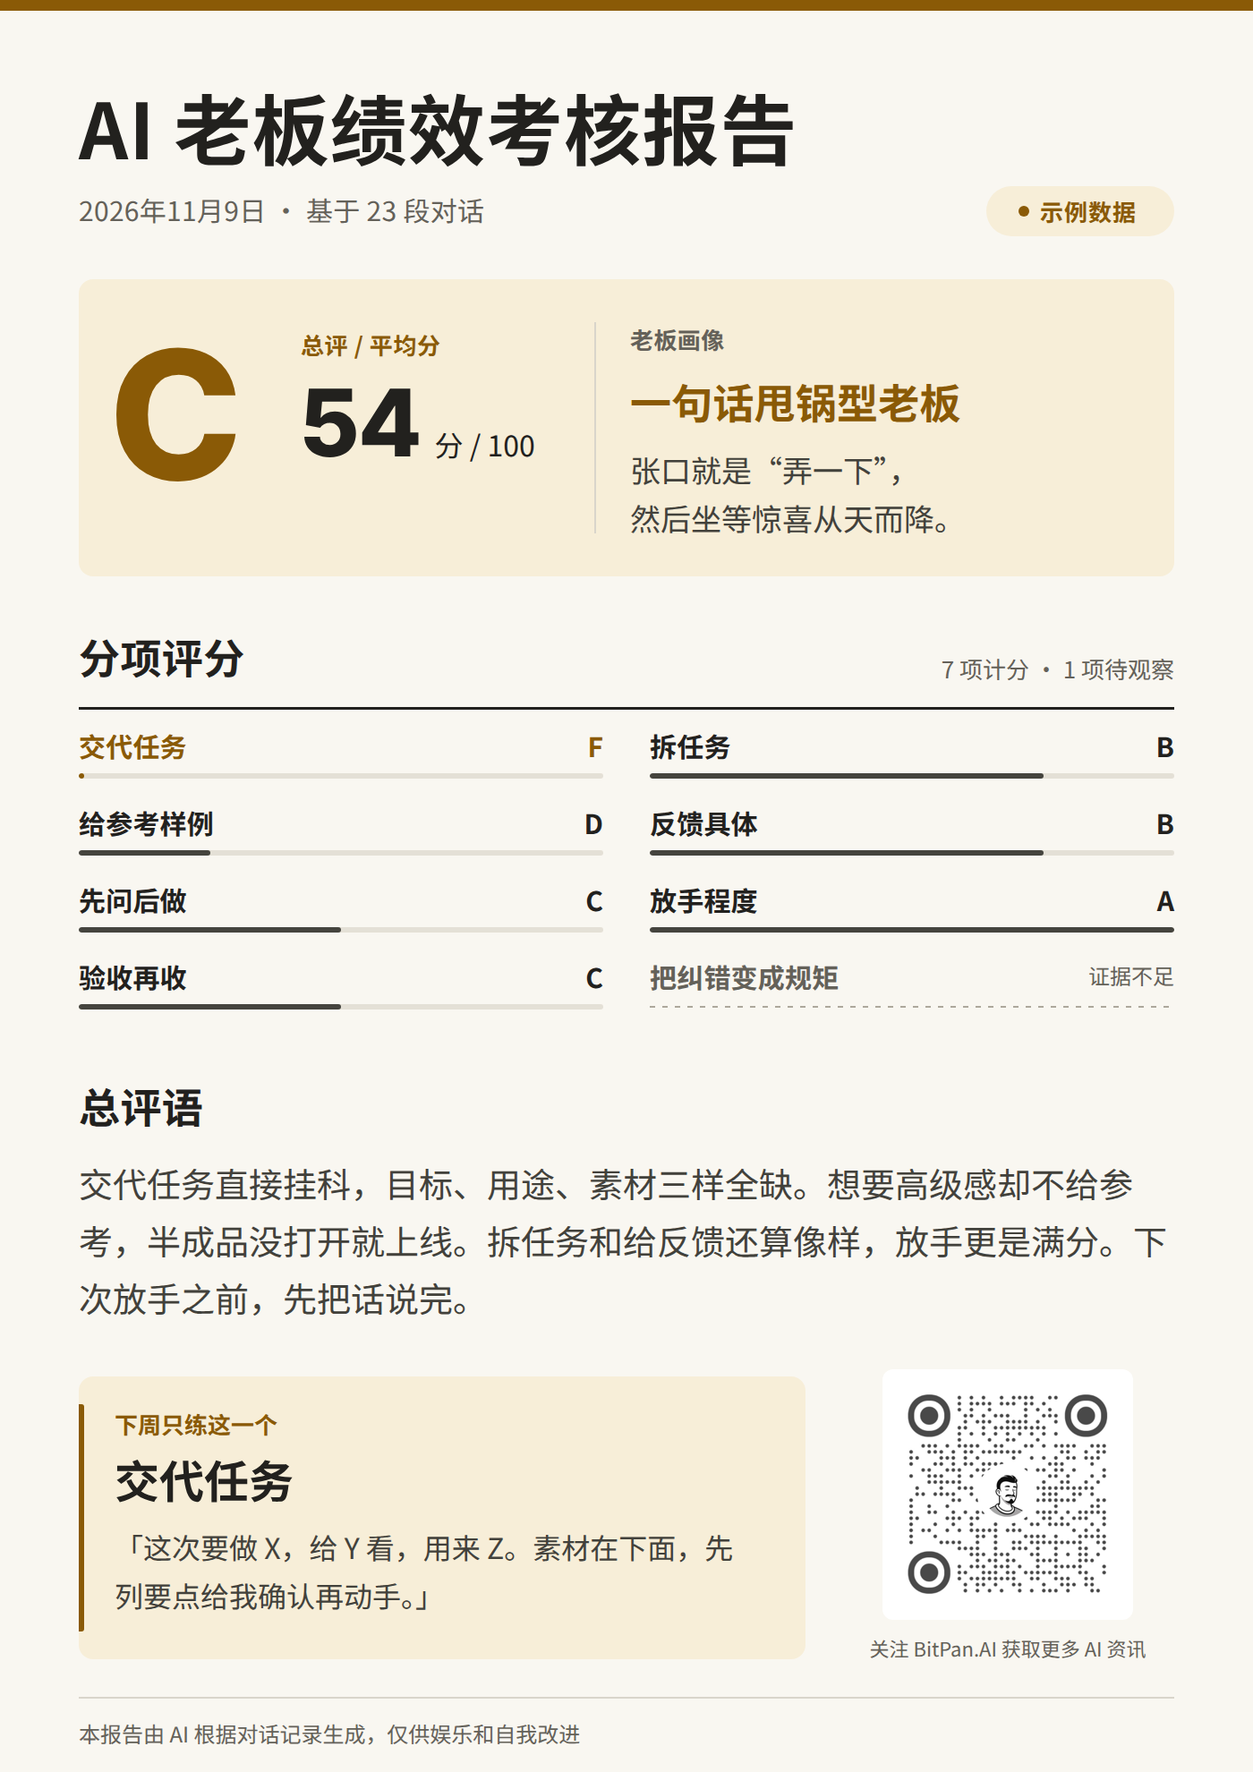
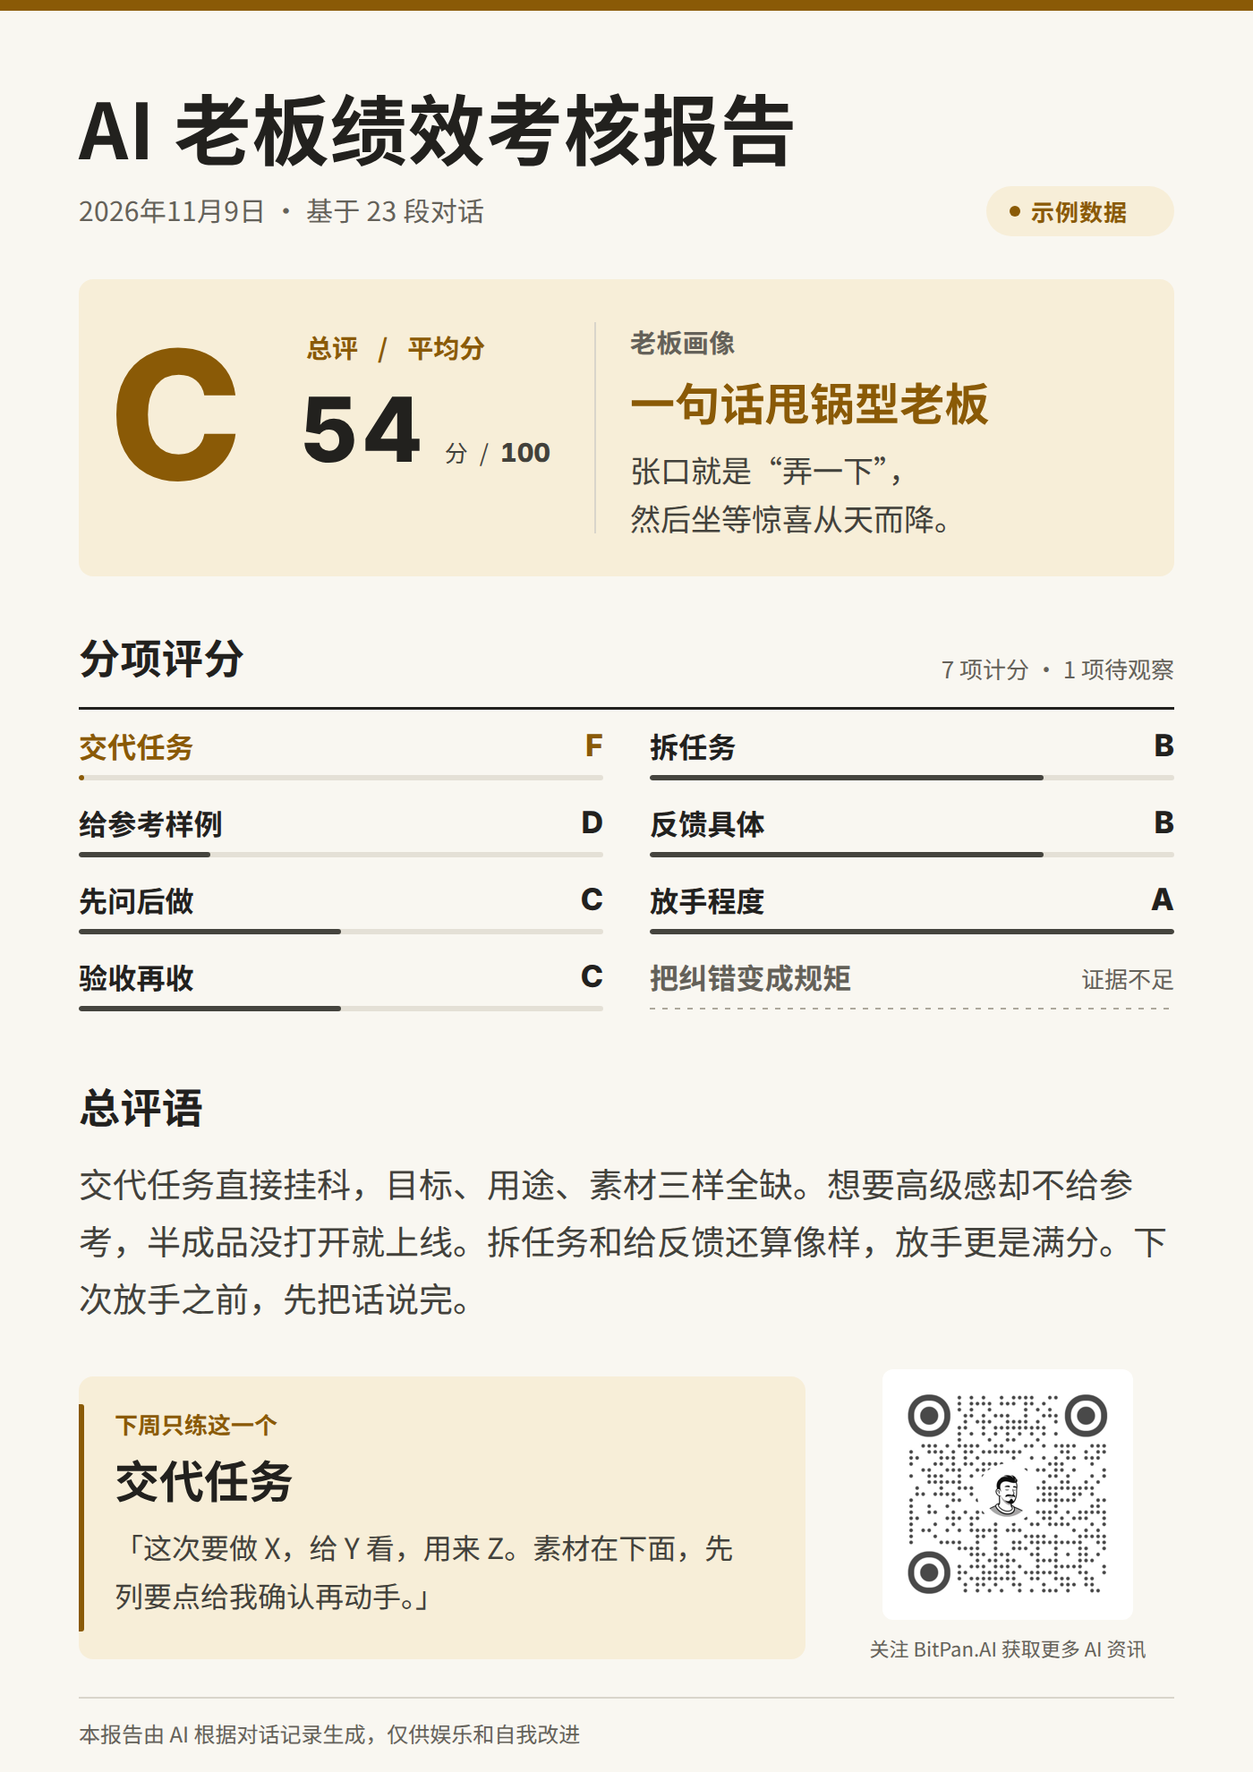
对齐成绩单字号和间距，截图失败只出文字版
画像标题、分项名、证据不足、老板画像按定稿字号放大。总评斜杠两侧拉开，大号分数下移并改用 Inter 的等宽数字，分/100 缩小并改成正文色。胶囊里的字左移 10px。

报告数据改放文本框，用 textContent 读入再校验。画像描述里的换行超过两行会报错退出。截不了图时只出文字版，不再把 HTML 交给用户。

diff --git a/skills/boss-review/assets/report-card.html b/skills/boss-review/assets/report-card.html
@@ -43,7 +43,7 @@ h1{
 }
 .badge{
   position:absolute;top:208px;right:88px;height:56px;max-width:320px;
-  padding:0 42px 0 36px;border-radius:28px;
+  padding:0 52px 0 26px;border-radius:28px;
   background:var(--card);color:var(--accent);
   display:flex;align-items:center;gap:12px;
   font-size:26px;font-weight:600;letter-spacing:1px;
@@ -61,22 +61,25 @@ h1{
   color:var(--accent);letter-spacing:-2px;
 }
 .score{position:absolute;left:248px;top:60px;width:320px}
-.kicker{font-size:26px;line-height:28px;font-weight:600;letter-spacing:0.6px}
-.kicker.accent{color:var(--accent)}
+.kicker{font-size:29px;line-height:32px;font-weight:600;letter-spacing:0.4px}
+.kicker.accent{color:var(--accent);display:flex;align-items:baseline;gap:22px;letter-spacing:0;margin-left:6px}
 .kicker.muted{color:var(--muted);font-weight:600;letter-spacing:0.4px}
-.scoreline{margin-top:36px;display:flex;align-items:baseline;gap:16px}
+.scoreline{margin-top:39px;display:flex;align-items:baseline;gap:20px}
 .scoreline b{
-  font-family:Inter,sans-serif;font-weight:800;font-size:104px;line-height:0.72;
-  letter-spacing:-2px;color:var(--ink);
+  font-family:Inter,sans-serif;font-weight:800;font-size:100px;line-height:0.75;
+  letter-spacing:5.8px;color:var(--ink);
+  font-variant-numeric:tabular-nums;
+  font-feature-settings:"tnum" 1;
 }
-.scoreline b.dash{color:#6E6A62;letter-spacing:0}
-.unit{font-size:32px;line-height:1;font-weight:500;color:var(--ink)}
+.scoreline b.dash{color:#6E6A62;letter-spacing:0;font-variant-numeric:normal}
+.unit{display:inline-flex;align-items:baseline;gap:13px;font-size:26px;line-height:1;font-weight:500;color:var(--body);letter-spacing:0}
+.unit .ud{font-family:Inter,sans-serif;font-weight:800;font-size:29px;font-variant-numeric:tabular-nums;font-feature-settings:"tnum" 1;letter-spacing:0}
 .few{margin-top:18px;font-size:20px;line-height:28px;color:var(--muted);font-weight:400}
 .vrule{position:absolute;left:576px;top:48px;width:2px;height:236px;background:var(--hair)}
 .portrait{position:absolute;left:616px;top:54px;width:560px}
 .portrait h2{
-  margin-top:28px;color:var(--accent);
-  font-size:46px;line-height:54px;font-weight:600;letter-spacing:0.2px;
+  margin-top:24px;color:var(--accent);
+  font-size:50px;line-height:54px;font-weight:600;letter-spacing:0.2px;
   overflow:hidden;white-space:nowrap;text-overflow:ellipsis;
 }
 .portrait p{
@@ -100,10 +103,10 @@ h1{
   grid-template-rows:repeat(4,86px);grid-auto-flow:column;
 }
 .cell{height:86px}
-.nrow{height:32px;display:flex;align-items:flex-end;justify-content:space-between}
-.nrow .n{font-size:30px;line-height:32px;font-weight:600;letter-spacing:0.2px}
-.nrow .g{font-size:30px;line-height:32px;font-weight:600}
-.nrow .g.na{font-size:24px;font-weight:400;color:var(--muted);padding-bottom:1px}
+.nrow{height:34px;display:flex;align-items:flex-end;justify-content:space-between}
+.nrow .n{font-size:32px;line-height:34px;font-weight:600;letter-spacing:0.2px}
+.nrow .g{font-family:Inter,var(--sans);font-size:34px;line-height:34px;font-weight:800}
+.nrow .g.na{font-family:var(--sans);font-size:26px;line-height:28px;font-weight:400;color:var(--muted);padding-bottom:1px}
 .cell.na .n{color:var(--muted)}
 .cell.low .n,.cell.low .g{color:var(--accent)}
 .bar{margin-top:15px;height:6px;border-radius:3px;background:var(--track);overflow:hidden}
@@ -164,8 +167,8 @@ h1{
 <section class="hero">
   <div class="grade" id="grade"></div>
   <div class="score">
-    <div class="kicker accent">总评 / 平均分</div>
-    <div class="scoreline"><b id="avg"></b><span class="unit">分 / 100</span></div>
+    <div class="kicker accent"><span>总评</span><span>/</span><span>平均分</span></div>
+    <div class="scoreline"><b id="avg"></b><span class="unit"><span>分</span><span>/</span><span class="ud">100</span></span></div>
     <div class="few" id="few" hidden>计分项偏少，仅供参考</div>
   </div>
   <div class="vrule"></div>
@@ -201,26 +204,7 @@ h1{
 <div class="fline"></div>
 <div class="foot">本报告由 AI 根据对话记录生成，仅供娱乐和自我改进</div>
 
-<script>
-window.addEventListener("error", (ev) => {
-  document.body.dataset.renderError = (ev && ev.message) || "脚本出错";
-});
-</script>
-<script>
-/* =====================================================================
-   只改下面这个 REPORT。主题色、平均分、总评等级、最低项高亮、进度条
-   都由后面的脚本计算，不要手填，也不要改样式。
-   字数是上限。再长会被省略号截断，不要指望多写还能完整显示。
-   date            日期，原样显示，最多 16 个字。如 "2026年11月9日"
-   conversations   对话段数，最多 4 位整数。缺 date 或 conversations 时那一段留空
-   badge           右上角胶囊，最多 6 个字。示例填 "示例数据"；真实报告填 null 去掉
-   grades          八项等级：A–F，不区分大小写。证据不足填 null。别的值会报错
-   portraitTitle   老板画像标题，一行，最多 11 个字
-   portraitText    画像描述，最多 32 个字、两行。需要手动断行时在字符串里写 \n
-   commentary      总评语，最多 90 个字、三行
-   focusTitle      下周只练这一个的标题，一行，最多 14 个字
-   focusScript     一句可以照着说的话，连同「」一起写，最多 42 个字、两行
-   ===================================================================== */
+<textarea id="report-data" hidden readonly>
 const REPORT = {
   "date": "2026年11月9日",
   "conversations": 23,
@@ -241,7 +225,35 @@ const REPORT = {
   "focusTitle": "把反馈沉淀成规则",
   "focusScript": "「这次通过的标准是 X。把它补进检查清单，下次交付前先自查。」"
 };
-
+</textarea>
+<script>
+window.addEventListener("error", (ev) => {
+  document.body.dataset.renderError = (ev && ev.message) || "脚本出错";
+});
+</script>
+<script>
+/* =====================================================================
+   只改上面 textarea 里的 REPORT。主题色、平均分、总评等级、最低项高亮、
+   进度条都由脚本计算，不要手填，也不要改样式。数据按纯文本读入，再用
+   textContent 写到页面上，不会当成 HTML 执行。
+   字数是上限。再长会被省略号截断，不要指望多写还能完整显示。
+   date            日期，原样显示，最多 16 个字。如 "2026年11月9日"
+   conversations   对话段数，最多 4 位整数。缺 date 或 conversations 时那一段留空
+   badge           右上角胶囊，最多 6 个字。示例填 "示例数据"；真实报告填 null 去掉
+   grades          八项等级：A–F，不区分大小写。证据不足填 null。别的值会报错
+   portraitTitle   老板画像标题，一行，最多 11 个字
+   portraitText    画像描述，最多 32 个字、两行。\n 用来手动断行，每一段必须单独排进一行
+   commentary      总评语，最多 90 个字、三行
+   focusTitle      下周只练这一个的标题，一行，最多 14 个字
+   focusScript     一句可以照着说的话，连同「」一起写，最多 42 个字、两行
+   ===================================================================== */
+function loadReport(){
+  const raw = document.getElementById("report-data").textContent.trim();
+  const m = raw.match(/^const REPORT\s*=\s*(\{[\s\S]*\})\s*;?$/);
+  if (!m) throw new Error("脚本出错：找不到 REPORT");
+  try { return JSON.parse(m[1]); }
+  catch (err) { throw new Error("脚本出错：" + (err && err.message ? err.message : err)); }
+}
 const ORDER = ["交代任务","给参考样例","先问后做","验收再收","拆任务","反馈具体","放手程度","把纠错变成规矩"];
 const HALF = {A:200, B:150, C:100, D:50, E:25, F:0};
 const SCORE = {A:100, B:75, C:50, D:25, E:12.5, F:0};
@@ -309,9 +321,32 @@ function metaText(report){
 function fillText(id, value){
   document.getElementById(id).textContent = value == null ? "" : String(value);
 }
+function assertPortraitLines(text){
+  const value = text == null ? "" : String(text);
+  if (!value.includes("\n")) return;
+  const parts = value.split("\n");
+  const el = document.getElementById("portraitText");
+  if (parts.length > 2){
+    throw new Error("portraitText 排成了 " + parts.length + " 行，最多两行");
+  }
+  const cs = getComputedStyle(el);
+  const probe = document.createElement("span");
+  probe.style.cssText = "position:absolute;visibility:hidden;white-space:nowrap;font:" + cs.font + ";letter-spacing:" + cs.letterSpacing;
+  document.body.appendChild(probe);
+  try {
+    for (const part of parts){
+      probe.textContent = part;
+      if (probe.getBoundingClientRect().width > el.clientWidth + 1){
+        throw new Error("portraitText 有一段排不进一行，换行后会超过两行");
+      }
+    }
+  } finally {
+    probe.remove();
+  }
+}
 
 (function(){
-  const R = REPORT;
+  const R = loadReport();
   const C = compute(R);
   const theme = THEME[C.overall] || THEME["?"];
   const root = document.documentElement;
@@ -374,6 +409,7 @@ function fillText(id, value){
   document.body.dataset.low = C.worstName || "";
   document.body.dataset.scored = String(C.scored);
   document.body.dataset.na = String(C.na);
+  assertPortraitLines(R.portraitText);
   document.body.dataset.rendered = "ok";
 })();
 </script>

diff --git a/scripts/render_report.py b/scripts/render_report.py
@@ -149,6 +149,13 @@ def screenshot(html_path: Path, png_path: Path, timeout_s: float = 30) -> None:
     png_path.parent.mkdir(parents=True, exist_ok=True)
     if png_path.exists():
         png_path.unlink()
+    html_text = html_path.read_text(encoding="utf-8")
+    lowered = html_text.lower()
+    # A raw </script> inside the report data would execute if it were in a
+    # script element. The template keeps the data in a textarea and allows
+    # exactly two script tags; anything else is rejected before Chrome runs.
+    if lowered.count("</script>") != 2 or lowered.count("<script") != 2:
+        raise SystemExit("页面脚本出错：HTML 里有未转义的 </script>，拒绝截图")
     timeout_ms = max(1, int(timeout_s * 1000))
     errors: list[str] = []
     console: list[str] = []

diff --git a/skills/boss-review/SKILL.md b/skills/boss-review/SKILL.md
@@ -111,7 +111,7 @@ description: 把用户当成"管 AI 的老板"，按 8 个管理习惯给他打 
 这些字段按这个人的真实对话来写。语气轻松，但要具体、有建设性。可以带一点梗，不要套用示例原文，也不要骂人。
 
 - 画像标题：一行，最多 11 个字，十个字上下，有画面。例如「给方向也给空间」「一句话甩锅型老板」「边做边想型老板」「反馈全靠感觉」。必须能从证据里看出来。
-- 画像描述：最多 32 个字、两行。只画这个人平时怎么派活，不点名习惯、不写分数。默认按宽度自动换行；要跟某张定稿一样在指定位置断行时，在字符串里写 `\n`（C 档示例就是在逗号后断开的）。
+- 画像描述：最多 32 个字、两行。只画这个人平时怎么派活，不点名习惯、不写分数。默认按宽度自动换行；要跟某张定稿一样在指定位置断行时，在字符串里写 `\n`（C 档示例就是在逗号后断开的）。`\n` 切开的每一段都必须自己排得进一行，整段不能超过两行，多了模板会报错退出，不会悄悄截断。
 - 总评语：最多 90 个字、三行。说清楚哪几件事做得稳、哪一件最拖后腿、下次可以怎么做。不要复述画像那两句的比喻。
 - 下周只练这一个：挑一个最值得练的习惯。可以是最低的那项，也可以是证据还不够、但练了收益最大的那项。标题一行，最多 14 个字。下面给一句明天就能照着说的话，用「」括起来，里面用 X、Y、Z 留出空位，连引号一起最多 42 个字、两行。
 
@@ -138,7 +138,7 @@ description: 把用户当成"管 AI 的老板"，按 8 个管理习惯给他打 
 
 ## 第七步：出图
 
-读取和本文件同一层的 `assets/report-card.html`。这是一张 1400×1980 的单页。只替换 `<script>` 里的 `const REPORT = { ... }`，不要改样式、结构、脚本、二维码和页脚。
+读取和本文件同一层的 `assets/report-card.html`。这是一张 1400×1980 的单页。只替换文本框里的 `const REPORT = { ... }`，不要改样式、结构、脚本、二维码和页脚。数据是纯文本，页面会自己校验；不要把报告数据写进会执行的脚本。
 
 ```javascript
 const REPORT = {
@@ -177,16 +177,13 @@ python3 scripts/render_report.py --html skills/boss-review/assets/report-card.ht
 
 先装依赖：`pip install playwright`。用的是系统 Chrome，不必再跑 `playwright install`。超时默认 30 秒，`--timeout 60` 可以加长。页面脚本如果出错，命令会把错误打出来并以非 0 退出，不会留下一张默认的「A 93」。
 
-直接调用 `google-chrome --screenshot` 在部分 Linux 上会一直挂起，不要靠它。截图失败就说明原因，改交 HTML，不要为了截图改用户的系统设置。
+直接调用 `google-chrome --screenshot` 在部分 Linux 上会一直挂起，不要靠它。截图失败就说明原因，然后改出下面的文字版。不要把 HTML 交给用户，也不要为了截图改用户的系统设置。
 
-不在仓库里、但本机能开 Chrome 时，把填好的 HTML 放在 `assets/` 目录里再截。挂起或失败就改交 HTML。
-
-2. 不能跑浏览器，但能做预览或 artifact：把填好 `REPORT` 的 HTML 展示出来。预览里截图即可。
-3. 两样都不行：把填好的完整 HTML 交给用户，让他保存成 `.html`，用浏览器打开再截图。打开时工作目录要能找到旁边的 `qr.png` 和 `fonts/`。
+2. 不能跑浏览器：不要交 HTML。按下一节的文字版把同一份成绩单写出来。
 
 字形：模板优先用苹方（PingFang SC，macOS 自带）和自带的 Inter ExtraBold。没有苹方就用系统黑体，版式不要改，也不要换成另一套设计。
 
-## 做不了 HTML 时的文字版
+## 截不了图时的文字版
 
 按图的顺序写，全部中文。不要另起一种成绩单样式。
 
@@ -228,7 +225,7 @@ N 项计分 · M 项待观察
 
 ## 规则
 
-- 只出报告。不修改用户的项目文件、设置、记忆或自定义说明。写出成绩单 HTML 或 PNG 是报告本身，可以。
+- 只出报告。不修改用户的项目文件、设置、记忆或自定义说明。成绩单可以是 PNG，截不了图就给文字版。不要把 HTML 交给用户。
 - 不编数字、不编原话。拿不准就写证据不足。
 - 引用原话时避开密码、手机号、地址、公司机密，必要时用「……」打码。
 - 全部用中文。

diff --git a/prompt.md b/prompt.md
@@ -56,14 +56,14 @@ A：重复的问题都定成了规则。F：同一个错纠正三四次，每次
 按我的真实对话来写，不要套用任何示例原文。语气轻松，但要具体、有建设性。只说习惯，不说人；不说笨、懒、蠢，不拿外貌、职业、性别、地域开玩笑。
 
 - 画像标题：一行，最多 11 个字，十个字上下，有画面。比如「给方向也给空间」「一句话甩锅型老板」。必须能从证据里看出来。
-- 画像描述：最多 32 个字、两行。只画我平时怎么派活，不点名习惯、不写分数。要在指定位置断行就写 `\n`，否则按宽度自动换行。
+- 画像描述：最多 32 个字、两行。只画我平时怎么派活，不点名习惯、不写分数。要在指定位置断行就写 `\n`，否则按宽度自动换行。`\n` 分开的每一段必须各自排进一行，不能靠自动换行再拆开，整段最多两行。
 - 总评语：最多 90 个字、三行。哪几件事做得稳，哪一件最拖后腿，下次可以怎么做。
 - 下周只练这一个：挑一个最值得练的习惯。标题一行，最多 14 个字。下面给一句明天就能照着说的话，用「」括起来，连引号最多 42 个字、两行。
 - 日期最多 16 个字，对话段数最多 4 位。右上角如果要标「示例数据」，最多 6 个字；真实报告不要这个胶囊。缺日期或缺对话段数时，那一段留空，不要写 undefined。
 - 超过上面的字数会被省略号截掉。不要写到叠上别的区块、盖住二维码或顶到右上角胶囊。
 
 【怎么出图】
-如果你读得到仓库或技能里的 `report-card.html`：只改里面的 `const REPORT = { ... }`，不要改样式、脚本、二维码和页脚。八项等级用 "A" 到 "F"（大小写都行），证据不足填 null。不是 A–F 也不是 null 的等级不要填。真实报告的 badge 填 null。画像描述要手动断行时，在字符串里写 `\n`。模板会自己算平均分、总评字母、主题色和最低项高亮；总评是「?」时大号分数显示「—」。
+如果你读得到仓库或技能里的 `report-card.html`：只改文本框里的 `const REPORT = { ... }`，不要改样式、脚本、二维码和页脚。八项等级用 "A" 到 "F"（大小写都行），证据不足填 null。不是 A–F 也不是 null 的等级不要填。真实报告的 badge 填 null。画像描述要手动断行时，在字符串里写 `\n`，而且 `\n` 分开的每一段都要能单独排进一行。模板会自己算平均分、总评字母、主题色和最低项高亮；总评是「?」时大号分数显示「—」。
 
 在仓库里截 1400×1980 的 PNG，用：
 
@@ -71,9 +71,7 @@ python3 scripts/render_report.py --html skills/boss-review/assets/report-card.ht
 
 需要已安装 `playwright`（`pip install playwright`）和系统里的 Google Chrome。不必再跑 `playwright install`。不要用 `google-chrome --screenshot`，它在部分 Linux 上会挂起。
 
-截不出来就把填好的 HTML 给我。HTML 要和旁边的 qr.png、fonts 放在一起再打开。
-
-做不了 HTML，就按下面的结构出文字版，不要另起一种成绩单：
+截不出来就按下面的结构出文字版，不要把 HTML 交给我，也不要另起一种成绩单：
 
 AI 老板绩效考核报告
 日期 · 基于 N 段对话

diff --git a/README.md b/README.md
@@ -145,7 +145,7 @@ gemini extensions install https://github.com/BitPan666/boss-review
 1. 装好或贴好提示词之后，说「给我这个老板打个分」。
 2. 它如果能读到你和 AI 的历史对话，会先告诉你读了哪些、大概多少段，再打分。
 3. 读不到的话，它会停下来让你贴几段完整的来回。贴得越多越准。
-4. 你会先拿到一份文字成绩单（每项有原话），再拿到一张 1400×1980 的成绩单图。能跑无头浏览器就按技能里的命令截图；不能就给你填好的 HTML，保存成 `.html` 用浏览器打开再截图。完全做不了 HTML 时，按同一版式给你文字版。
+4. 你会先拿到一份文字成绩单（每项有原话），再拿到一张 1400×1980 的成绩单图。能跑无头浏览器就按技能里的命令截图；截不出来就按同一版式给你文字版，不会把 HTML 交给你。
 5. 想和上次比，把上次的成绩单一并贴进去。
 
 ## 隐私
